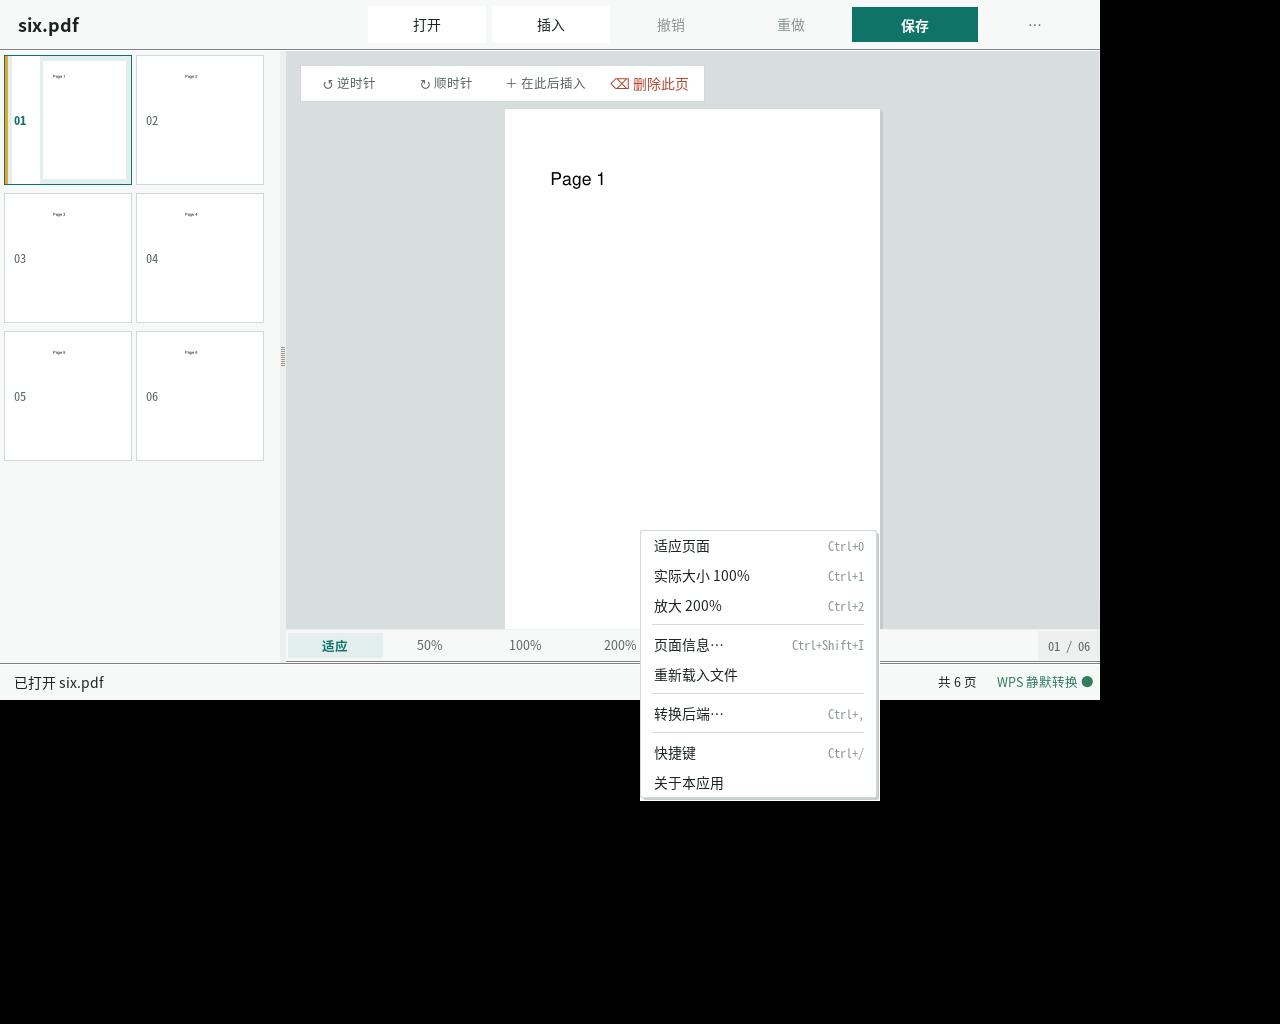
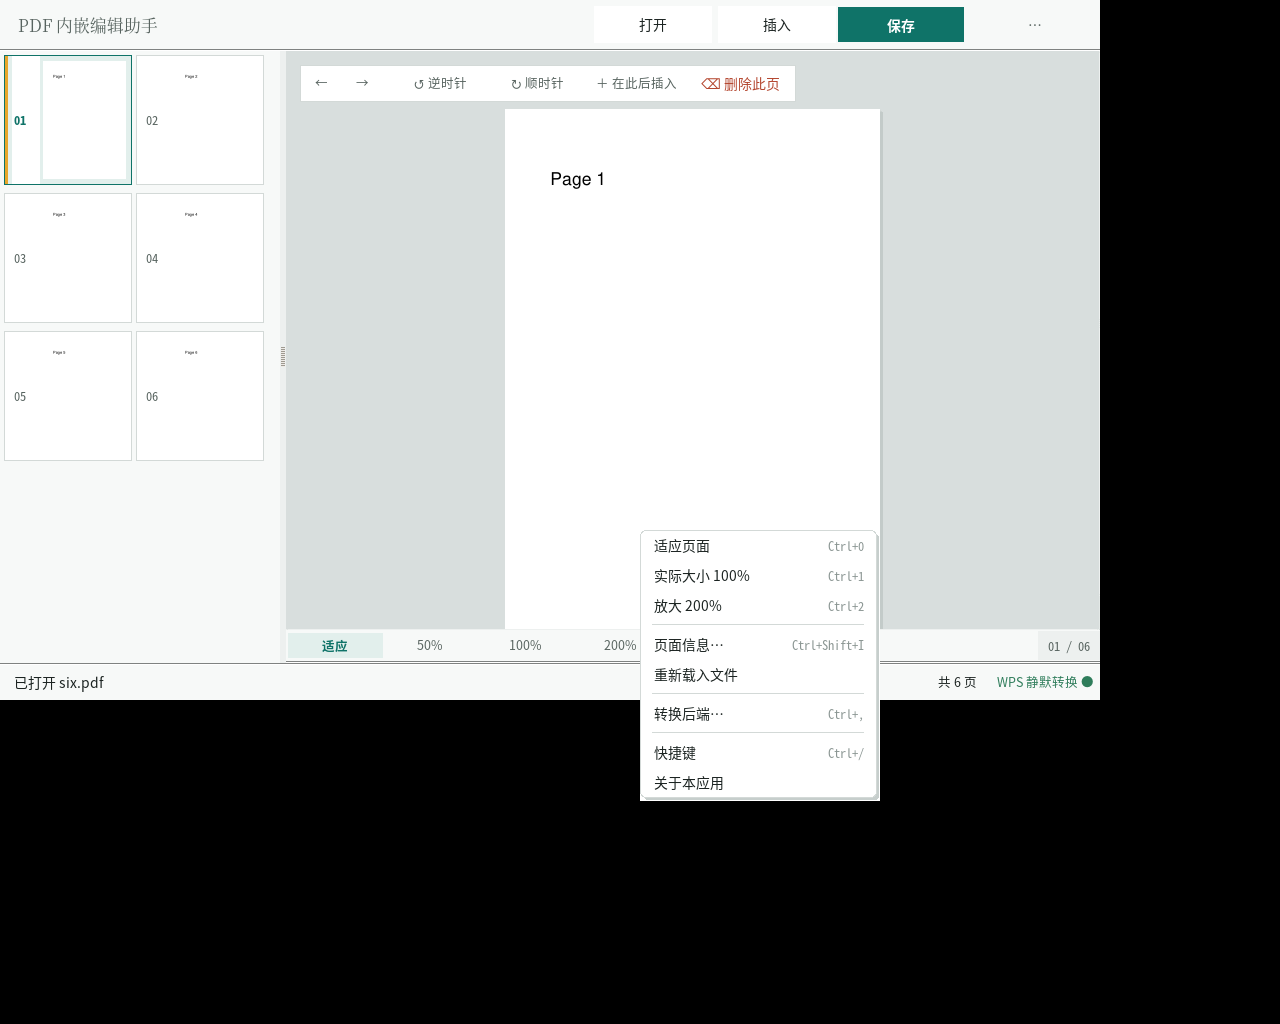
docs: rounded cards, top bar and undo placement

diff --git a/docs/design-system.md b/docs/design-system.md
@@ -133,6 +133,14 @@
 **预览区右键**：`适应宽度` / `实际大小 100%` / `放大 200%` / ─ / `导出当前页为图片…` / `在第 N 页后插入文件…`。
 **`⋯` 溢出**：`页面信息…` / ─ / `转换后端设置…` / `重新载入文件` / ─ / `关于本应用`。
 
+### 3.3.1 卡片与浮层
+
+- 浮层菜单、模态面板都是**自绘的圆角纸面卡片**：四角用 `pieslice` 拼（`smooth`
+  多边形画出来还是方角），描边单独画，下面铺三层偏移投影。
+- 模态面板**无系统边框**（`overrideredirect`），自带头部标题与 `×`，
+  不再有"系统标题栏 + 面板标题"重复两遍的情况。
+- 浮层菜单任何时候都能消失：点菜单外、点别处右键、按 `Esc`。
+
 ### 3.4 反馈
 
 | 场景 | 组件 |
@@ -170,8 +178,10 @@
 └──────────────────────────────────────────────────────────────
 ```
 
-- **只有一条顶栏**：左边文档身份（名字 + 未保存琥珀点），右边常用动作（打开 / 插入 /
-  撤销 / 重做 / 保存 / `⋯`）。低频命令进 `⋯`。
+- **只有一条顶栏**：左边是字标（宋体「PDF 内嵌编辑助手」），右边是常用动作
+  （打开 / 插入 / 保存 / `⋯`）。**文件名不再重复**——窗口标题栏已经承担了它，
+  长文件名不会把按钮挤掉；未保存状态用保存按钮旁的琥珀点表示。
+- **撤销 / 重做在浮条上**，用 `←` / `→` 两个返回箭头（带 hover 提示），不在顶栏。
 - **页面级动作浮在台面上**（白底小工具条），不是第二条窗口栏。
 - **撤销 / 重做**：基于快照，保留 5 步；`Ctrl+Z` / `Ctrl+Shift+Z`；不可用时按钮置灰；
   状态条提示「已撤销（还能撤销 2 步）」。
